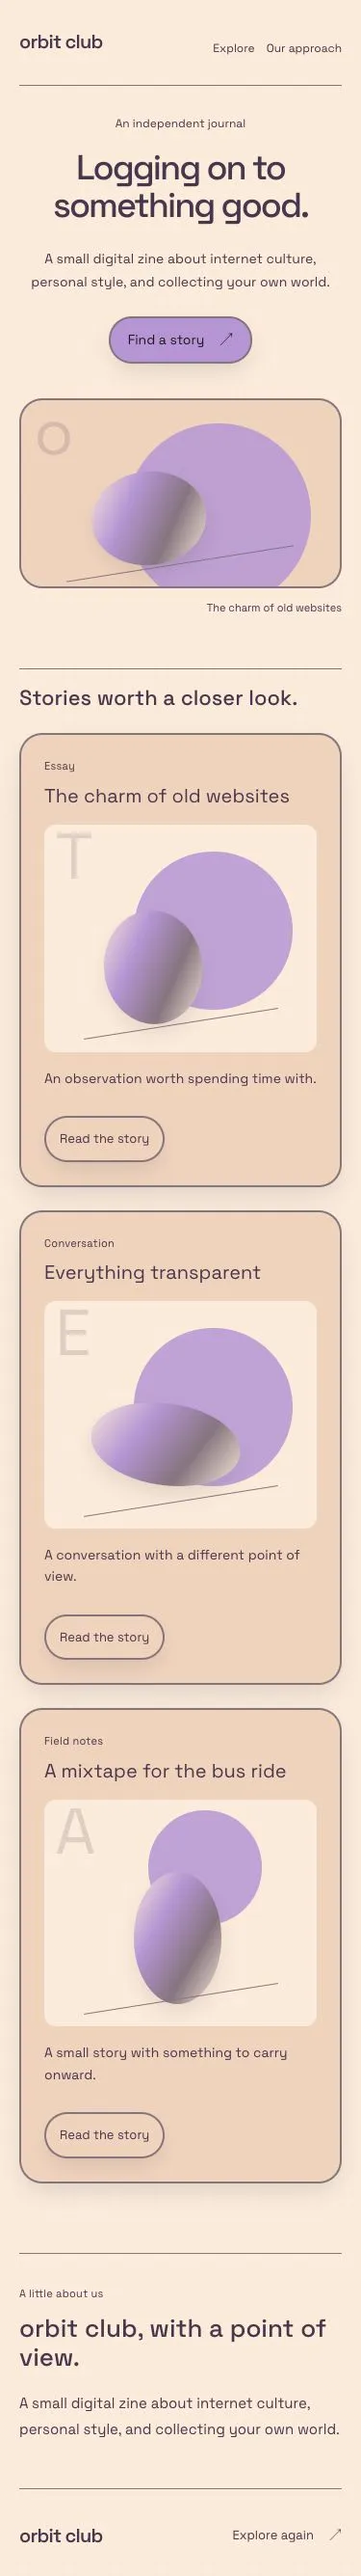
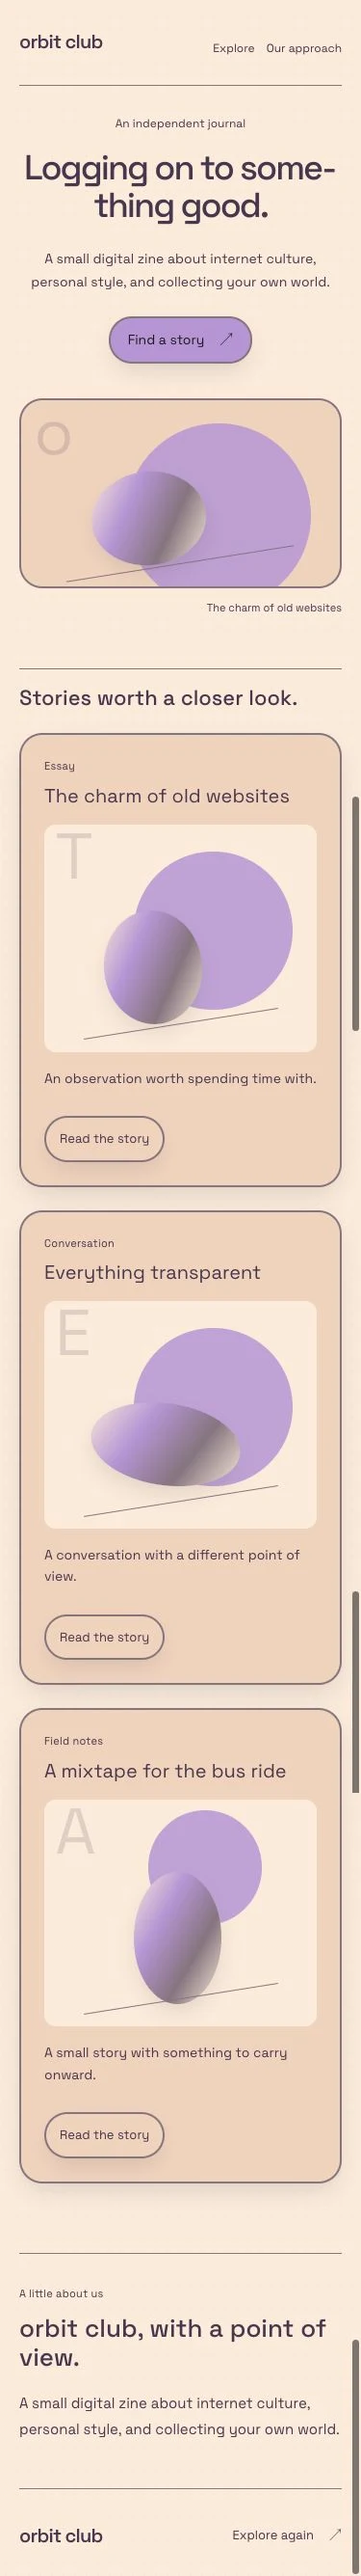
Refresh y2k references and synchronize its reusable skill assets.

diff --git a/skills/designkit-y2k/assets/shared/KitControls.tsx b/skills/designkit-y2k/assets/shared/KitControls.tsx
@@ -1,11 +1,14 @@
 "use client";
-
 import {
   useEffect,
   useId,
   useRef,
+  useState,
   type ButtonHTMLAttributes,
   type InputHTMLAttributes,
+  type HTMLAttributes,
+  type DialogHTMLAttributes,
+  type MouseEvent,
   type ReactNode,
 } from "react";
 
@@ -26,15 +29,16 @@ export function KitCard({
   label,
   children,
   action,
-}: {
-  title: string;
-  label?: string;
-  children?: ReactNode;
+  className = "",
+  ...props
+}: Omit<HTMLAttributes<HTMLElement>, "title"> & {
+  title: ReactNode;
+  label?: ReactNode;
   action?: ReactNode;
 }) {
   return (
-    <article className="kit-card">
-      <span className="kit-label">{label}</span>
+    <article {...props} className={`kit-card ${className}`}>
+      {label ? <span className="kit-label">{label}</span> : null}
       <h3>{title}</h3>
       {children}
       {action ? <div className="kit-card-action">{action}</div> : null}
@@ -44,18 +48,38 @@ export function KitCard({
 export function KitNavigation({
   brand,
   links,
-}: {
+  onNavigate,
+  className = "",
+  ...props
+}: HTMLAttributes<HTMLElement> & {
   brand: string;
   links: { label: string; href: string }[];
+  onNavigate?: (href: string, event: MouseEvent<HTMLAnchorElement>) => void;
 }) {
   return (
-    <nav className="kit-navigation" aria-label={`${brand} example navigation`}>
-      <a className="kit-brand" href={links[0]?.href}>
-        {brand}
-      </a>
+    <nav
+      {...props}
+      className={`kit-navigation ${className}`}
+      aria-label={props["aria-label"] || `${brand} navigation`}
+    >
+      {links[0]?.href ? (
+        <a
+          className="kit-brand"
+          href={links[0].href}
+          onClick={(event) => onNavigate?.(links[0].href, event)}
+        >
+          {brand}
+        </a>
+      ) : (
+        <span className="kit-brand">{brand}</span>
+      )}
       <div>
-        {links.map((link) => (
-          <a key={link.label} href={link.href}>
+        {links.map((link, index) => (
+          <a
+            key={`${link.href}:${index}`}
+            href={link.href}
+            onClick={(event) => onNavigate?.(link.href, event)}
+          >
             {link.label}
           </a>
         ))}
@@ -69,16 +93,20 @@ export function KitField({
   id,
   ...props
 }: InputHTMLAttributes<HTMLInputElement> & { label: string; error?: string }) {
-  const generated = useId();
-  const fieldId = id || generated;
+  const generated = useId(),
+    fieldId = id || generated;
+  const describedBy =
+    [props["aria-describedby"], error ? `${fieldId}-error` : undefined]
+      .filter(Boolean)
+      .join(" ") || undefined;
   return (
     <div className="kit-field">
       <label htmlFor={fieldId}>{label}</label>
       <input
         {...props}
         id={fieldId}
-        aria-invalid={Boolean(error)}
-        aria-describedby={error ? `${fieldId}-error` : undefined}
+        aria-invalid={error ? true : props["aria-invalid"]}
+        aria-describedby={describedBy}
       />
       {error ? (
         <p id={`${fieldId}-error`} className="kit-field-error">
@@ -91,43 +119,100 @@ export function KitField({
 export function KitStatus({
   state,
   children,
-}: {
+  className = "",
+  ...props
+}: HTMLAttributes<HTMLParagraphElement> & {
   state: "loading" | "empty" | "error" | "success";
-  children: ReactNode;
 }) {
   return (
     <p
-      className={`kit-status kit-status-${state}`}
-      role={state === "error" ? "alert" : "status"}
+      {...props}
+      className={`kit-status kit-status-${state} ${className}`}
+      role={props.role || (state === "error" ? "alert" : "status")}
     >
       {children}
     </p>
   );
 }
+const bodyLocks = new WeakMap<
+  HTMLElement,
+  { count: number; overflow: string }
+>();
+function lockBody(body: HTMLElement) {
+  const lock = bodyLocks.get(body) || {
+    count: 0,
+    overflow: body.style.overflow,
+  };
+  lock.count++;
+  bodyLocks.set(body, lock);
+  body.style.overflow = "hidden";
+  let released = false;
+  return () => {
+    if (released) return;
+    released = true;
+    lock.count--;
+    if (!lock.count) {
+      body.style.overflow = lock.overflow;
+      bodyLocks.delete(body);
+    }
+  };
+}
+type KitDialogProps = Omit<
+  DialogHTMLAttributes<HTMLDialogElement>,
+  "title" | "open"
+> & { title: ReactNode; trigger: ReactNode } & (
+    | { open?: undefined; onOpenChange?: (open: boolean) => void }
+    | { open: boolean; onOpenChange: (open: boolean) => void }
+  );
 export function KitDialog({
   trigger,
   title,
   children,
-}: {
-  trigger: string;
-  title: string;
-  children: ReactNode;
-}) {
-  const dialog = useRef<HTMLDialogElement>(null);
-  const opener = useRef<HTMLButtonElement>(null);
-  const previousOverflow = useRef<string | null>(null);
-  const titleId = useId();
-  const restore = () => {
-    if (previousOverflow.current !== null) {
-      document.body.style.overflow = previousOverflow.current;
-      previousOverflow.current = null;
-    }
-    opener.current?.focus({ preventScroll: true });
+  open,
+  onOpenChange,
+  className = "",
+  onClose,
+  onCancel,
+  ...props
+}: KitDialogProps) {
+  const dialog = useRef<HTMLDialogElement>(null),
+    opener = useRef<HTMLButtonElement>(null);
+  const previousFocus = useRef<HTMLElement | null>(null),
+    release = useRef<(() => void) | null>(null);
+  const [internalOpen, setInternalOpen] = useState(false);
+  const isOpen = open ?? internalOpen,
+    titleId = useId();
+  const request = (next: boolean) => {
+    if (open === undefined) setInternalOpen(next);
+    onOpenChange?.(next);
   };
+  const restore = () => {
+    release.current?.();
+    release.current = null;
+    const target = previousFocus.current?.isConnected
+      ? previousFocus.current
+      : opener.current;
+    if (target?.isConnected) target.focus({ preventScroll: true });
+    previousFocus.current = null;
+  };
+  useEffect(() => {
+    const element = dialog.current;
+    if (!element) return;
+    if (isOpen) {
+      if (!element.open) {
+        previousFocus.current ??=
+          document.activeElement instanceof HTMLElement
+            ? document.activeElement
+            : opener.current;
+        element.showModal();
+      }
+      if (!release.current) release.current = lockBody(document.body);
+    } else if (!isOpen && element.open) element.close();
+  }, [isOpen]);
   useEffect(
     () => () => {
-      if (previousOverflow.current !== null)
-        document.body.style.overflow = previousOverflow.current;
+      release.current?.();
+      release.current = null;
     },
     [],
   );
@@ -137,21 +222,27 @@ export function KitDialog({
         ref={opener}
         className="kit-button kit-button-secondary"
         type="button"
+        aria-haspopup="dialog"
         onClick={() => {
-          previousOverflow.current = document.body.style.overflow;
-          dialog.current?.showModal();
-          document.body.style.overflow = "hidden";
+          previousFocus.current = opener.current;
+          request(true);
         }}
       >
         {trigger}
       </button>
       <dialog
-        className="kit-dialog"
+        {...props}
+        className={`kit-dialog ${className}`}
         ref={dialog}
-        aria-labelledby={titleId}
-        onClose={restore}
+        aria-labelledby={props["aria-labelledby"] || titleId}
+        onCancel={(event) => onCancel?.(event)}
+        onClose={(event) => {
+          restore();
+          if (isOpen) request(false);
+          onClose?.(event);
+        }}
       >
-        <div>
+        <div className="kit-dialog-heading">
           <h3 id={titleId}>{title}</h3>
           <button
             type="button"

diff --git a/skills/designkit-y2k/assets/shared/ExampleCanvas.tsx b/skills/designkit-y2k/assets/shared/ExampleCanvas.tsx
@@ -1,6 +1,6 @@
 "use client";
 
-import { useId, useState, type CSSProperties } from "react";
+import { useId, useState, type CSSProperties, type MouseEvent } from "react";
 import type {
   DesignExample,
   PlaygroundSettings,
@@ -62,10 +62,19 @@ export default function ExampleCanvas({
     `${item.title} ${item.label}`.toLowerCase().includes(query.toLowerCase()),
   );
   const headline = normalized.headline;
-  const goToContent = () =>
-    document
-      .getElementById(sectionId)
-      ?.scrollIntoView({ behavior: "instant", block: "start" });
+  const focusSection = (id: string) => {
+    const target = document.getElementById(id);
+    target?.scrollIntoView({ behavior: "instant", block: "start" });
+    target?.focus({ preventScroll: true });
+  };
+  const navigateWithinExample = (
+    href: string,
+    event: MouseEvent<HTMLAnchorElement>,
+  ) => {
+    event.preventDefault();
+    focusSection(href.slice(1));
+  };
+  const goToContent = () => focusSection(sectionId);
   const contextLabel = {
     shop: "A considered collection",
     journal: "An independent journal",
@@ -90,6 +99,7 @@ export default function ExampleCanvas({
     >
       <KitNavigation
         brand={example.brand}
+        onNavigate={navigateWithinExample}
         links={[
           {
             label:
@@ -322,14 +332,17 @@ export default function ExampleCanvas({
           </>
         )}
       </section>
-      <section id={aboutId} className="kit-about">
+      <section id={aboutId} className="kit-about" tabIndex={-1}>
         <span className="kit-label">A little about us</span>
         <h3>{example.brand}, with a point of view.</h3>
         <p>{example.description}</p>
       </section>
       <footer className="kit-footer">
         <span className="kit-brand">{example.brand}</span>
-        <a href={`#${sectionId}`}>
+        <a
+          href={`#${sectionId}`}
+          onClick={(event) => navigateWithinExample(`#${sectionId}`, event)}
+        >
           Explore again <span aria-hidden="true">↗</span>
         </a>
       </footer>

diff --git a/skills/designkit-y2k/assets/shared/kit.css b/skills/designkit-y2k/assets/shared/kit.css
@@ -42,6 +42,7 @@
   font-family: var(--dk-heading), serif;
   font-synthesis: none;
   overflow-wrap: anywhere;
+  hyphens: auto;
 }
 .kit-canvas :is(button, a, input, select, textarea):focus-visible,
 .kit-component-surface :is(button, a, input, select, textarea):focus-visible {
@@ -353,6 +354,11 @@
   background: var(--dk-canvas);
 }
 .kit-dialog {
+  margin: auto;
+  max-height: calc(100dvh - 48px);
+  overflow: auto;
+  overscroll-behavior: contain;
+  overflow-wrap: anywhere;
   max-width: min(520px, calc(100vw - 40px));
   padding: 28px;
   color: var(--dk-ink);
@@ -365,7 +371,7 @@
 .kit-dialog::backdrop {
   background: rgb(0 0 0 / 0.45);
 }
-.kit-dialog > div {
+.kit-dialog-heading {
   display: flex;
   justify-content: space-between;
   gap: 20px;

diff --git a/skills/designkit-y2k/assets/shared/tokens.ts b/skills/designkit-y2k/assets/shared/tokens.ts
@@ -3,6 +3,7 @@ import type {
   PlaygroundSettings,
   StyleRecipe,
 } from "./types";
+import { kitVersion } from "./types";
 
 export const fontFamilies = [
   "Archivo Black",
@@ -258,7 +259,7 @@ export function exportDesignTokens(
       "dev.designkit": {
         exampleId: example.id,
         styleId: example.styleId,
-        version: "2.0.0",
+        version: kitVersion,
         settings,
         cssShadow: values["--dk-shadow"],
       },
